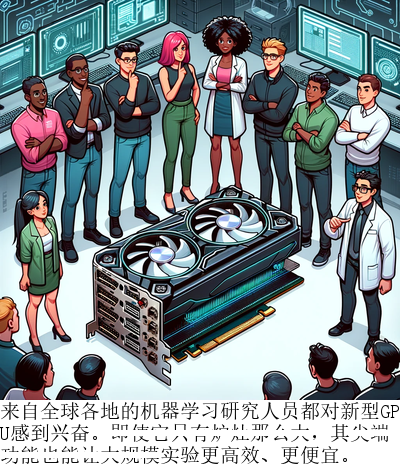
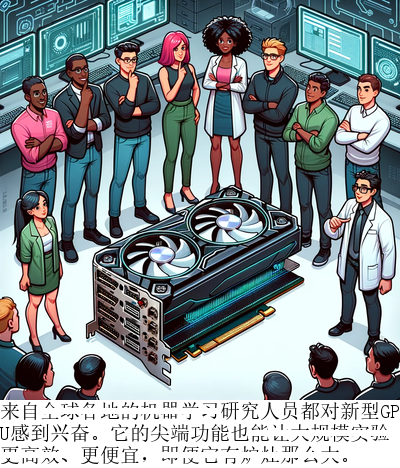
update examples

Changed region(s): [[0.0, 0.8675, 0.99, 1.0]]

diff --git a/src/build_dataset/vcr_transform.py b/src/build_dataset/vcr_transform.py
@@ -8,6 +8,7 @@ from utils import (
     mask_ngram,
     split_and_cross_out_image,
 )
+import os
 
 
 class VCRTransform:
@@ -69,23 +70,21 @@ class VCRTransform:
                 if mode.lower() == "easy":
                     self.lower_cross_height = 0.46
                     self.upper_cross_height = 0.77
-                    self.font_path = "arial.ttf"
 
                 elif mode.lower() == "hard":
                     self.lower_cross_height = 0.41
                     self.upper_cross_height = 0.80
-                    self.font_path = "arial.ttf"
+                self.font_path = os.path.join(os.path.dirname(font_path), "arial.ttf")
 
             elif self.language == "zh":
                 if mode.lower() == "easy":
                     self.lower_cross_height = 0.38
                     self.upper_cross_height = 0.62
-                    self.font_path = "simsun.ttc"
 
                 elif mode.lower() == "hard":
                     self.lower_cross_height = 0.26
                     self.upper_cross_height = 0.75
-                    self.font_path = "simsun.ttc"
+                self.font_path = os.path.join(os.path.dirname(font_path), "simsun.ttc")
 
             else:
                 raise ValueError(
@@ -188,20 +187,20 @@ if __name__ == "__main__":
             "cutting-edge capabilities enable more",
         ],
     }
-    transform = VCRTransform(mode="easy", language="en")
+    transform = VCRTransform(mode="easy", language="en", font_path="fonts/arial.ttf")
     transformed_example = transform(example)
     transformed_example["stacked_image"].save("en_example_image.png")
 
     # Chinese example
-    example = {
-        "image": Image.open("assets/main_pic.png"),
-        "caption": "来自全球各地的机器学习研究人员都对新型 GPU 感到兴奋。即使它只有炉灶那么大，其尖端功能也能让大规模实验更高效、更便宜。",
-        "crossed_text": [
-            "研究人员都对新型 GPU 感到",
-            "即使它只有炉灶那么大",
-            "尖端功能也能让大规模",
-        ],
-    }
-    transform = VCRTransform(mode="easy", language="zh")
-    transformed_example = transform(example)
-    transformed_example["stacked_image"].save("zh_example_image.png")
+    # example = {
+    #     "image": Image.open("assets/main_pic.png"),
+    #     "caption": "来自全球各地的机器学习研究人员都对新型 GPU 感到兴奋。它的尖端功能也能让大规模实验更高效、更便宜，即便它有炉灶那么大。",
+    #     "crossed_text": [
+    #         "全球各地的机器学习",
+    #         "能让大规模实验更高效",
+    #         "即便它有炉灶那么大",
+    #     ],
+    # }
+    # transform = VCRTransform(mode="hard", language="zh", font_path="fonts/simsun.ttc")
+    # transformed_example = transform(example)
+    # transformed_example["stacked_image"].save("zh_example_image.png")

diff --git a/README.md b/README.md
@@ -56,7 +56,7 @@ We present VCR-wiki, a dataset designed for the Visual Caption Restoration (VCR)
 Please refer to our main figure below for an overview of the VCR task.
 
 <div align="center">
-  <img src="assets/main_pic_en_easy.jpg" alt="VCR-Wiki Logo" width="450"/>
+  <img src="assets/main_pic_en_easy.png" alt="VCR-Wiki-en-easy" width="450"/>
 </div>
 
 

diff --git a/README-CN.md b/README-CN.md
@@ -14,7 +14,7 @@
 [English Readme](README.md)
 
 <div align="center">
-  <img src="assets/icon_vcr.jpg" alt="VCR-Wiki Logo" width="475"/>
+  <img src="assets/icon_vcr.jpg" alt="VCR-Wiki-zh-easy" width="475"/>
 </div>
 
 
